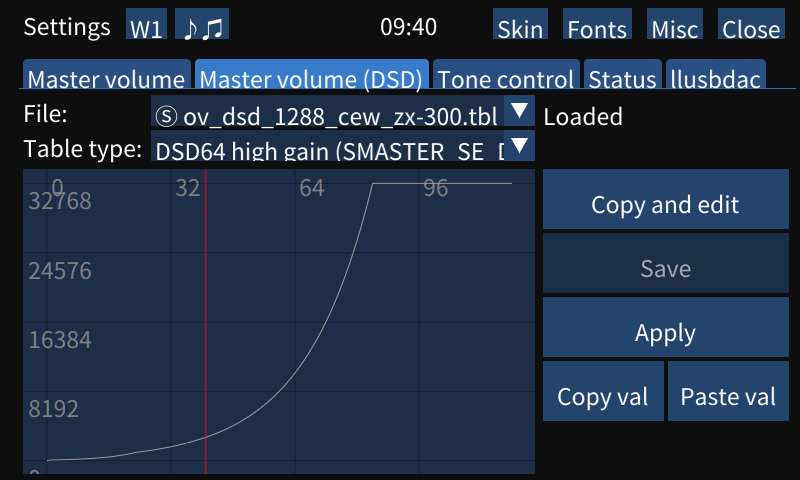
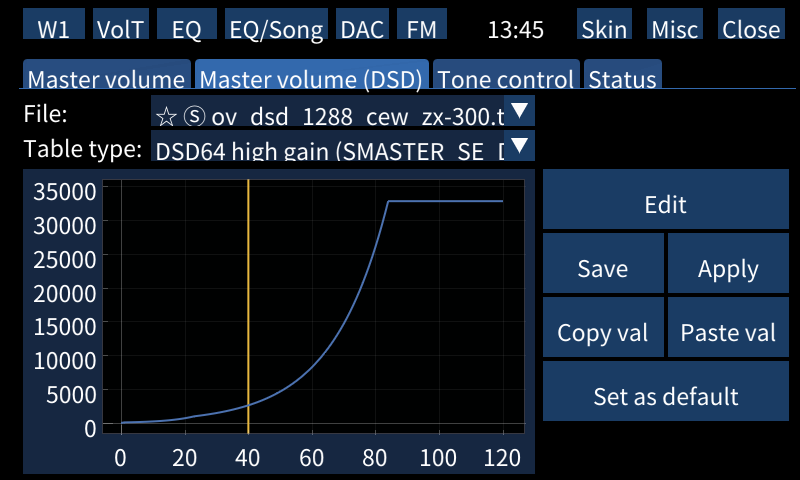
#40 doc up, remove table default mark on reset

diff --git a/src/skin.cpp b/src/skin.cpp
@@ -593,6 +593,16 @@ void Skin::Misc() {
             config->volumeTables.MasterVolumeTableDSD = "";
             config->Save();
             resetVolTablesStatus = "OK!";
+
+            std::vector<std::vector<directoryEntry> *> tables = {&masterVolumeFiles, &masterVolumeDSDFiles, &toneControlFiles};
+            for (auto &table : tables) {
+                for (int i = 0; i < table->size(); i++) {
+                    auto entry = table->at(i);
+                    if (entry.name.rfind(defaultMark, 0) == 0) {
+                        table->at(i).name.erase(0, defaultMark.length());
+                    }
+                }
+            }
         }
 
         ImGui::TableNextColumn();
@@ -1613,7 +1623,7 @@ void Skin::TabMasterVolume() {
 
                     for (int i = 0; i < masterVolumeFiles.size(); i++) {
                         if (masterVolumeFiles.at(i).name.rfind(defaultMark, 0) == 0) {
-                            masterVolumeFiles.at(i).name = masterVolumeFiles.at(i).name.erase(0, defaultMark.length());
+                            masterVolumeFiles.at(i).name.erase(0, defaultMark.length());
                         }
                         if (i == masterVolumeFileSelected) {
                             masterVolumeFiles.at(i).name = defaultMark + masterVolumeFiles.at(i).name;
@@ -1820,7 +1830,7 @@ void Skin::TabMasterDSDVolume() {
 
                     for (int i = 0; i < masterVolumeDSDFiles.size(); i++) {
                         if (masterVolumeDSDFiles.at(i).name.rfind(defaultMark, 0) == 0) {
-                            masterVolumeDSDFiles.at(i).name = masterVolumeDSDFiles.at(i).name.erase(0, defaultMark.length());
+                            masterVolumeDSDFiles.at(i).name.erase(0, defaultMark.length());
                         }
                         if (i == masterVolumeDSDFileSelected) {
                             masterVolumeDSDFiles.at(i).name = defaultMark + masterVolumeDSDFiles.at(i).name;
@@ -2025,7 +2035,7 @@ void Skin::TabToneControl() {
 
                     for (int i = 0; i < toneControlFiles.size(); i++) {
                         if (toneControlFiles.at(i).name.rfind(defaultMark, 0) == 0) {
-                            toneControlFiles.at(i).name = toneControlFiles.at(i).name.erase(0, defaultMark.length());
+                            toneControlFiles.at(i).name.erase(0, defaultMark.length());
                         }
                         if (i == toneControlFileSelected) {
                             toneControlFiles.at(i).name = defaultMark + toneControlFiles.at(i).name;

diff --git a/VOLUME_TABLES.md b/VOLUME_TABLES.md
@@ -15,8 +15,8 @@
 
 <!-- TOC -->
 
-NW-* series have digital amplifier S-Master HX™ technology powered by CXD3778GF chip. 
-Amplification rate depends on current volume value; you can change that rate by tuning chip configuration 
+NW-* series have digital amplifier S-Master HX™ technology powered by CXD3778GF chip.
+Amplification rate depends on current volume value; you can change that rate by tuning chip configuration
 using `volume->amplify rate` tables (or simply, volume tables).
 They impact sound signature and are loaded on boot. On Walkman One these are known as "Gain mode".
 
@@ -134,7 +134,9 @@ is, the louder is output.
 
 Use buttons `Copy val` and `Paste val` to copy and paste values from/to currently selected value type (everything on
 graph). Press `Edit` to edit values. `Apply` immediately applies changes. Press `Save` to save file
-to `internal storage/wampy/sound_settings/master_volume/` directory.
+to `internal storage/wampy/sound_settings/master_volume/` directory. `Set as default` makes currently shown table
+default - it will apply after toggling wampy for the first time after booting the device. To reset default tables, use
+`Set default volume tables` button in `Misc` tab.
 
 There are 26 table types and 13 value types specified by codec; you usually want to change `Play` and `Headphones` types
 for `Headphones, high gain` table. Feel free to experiment.
